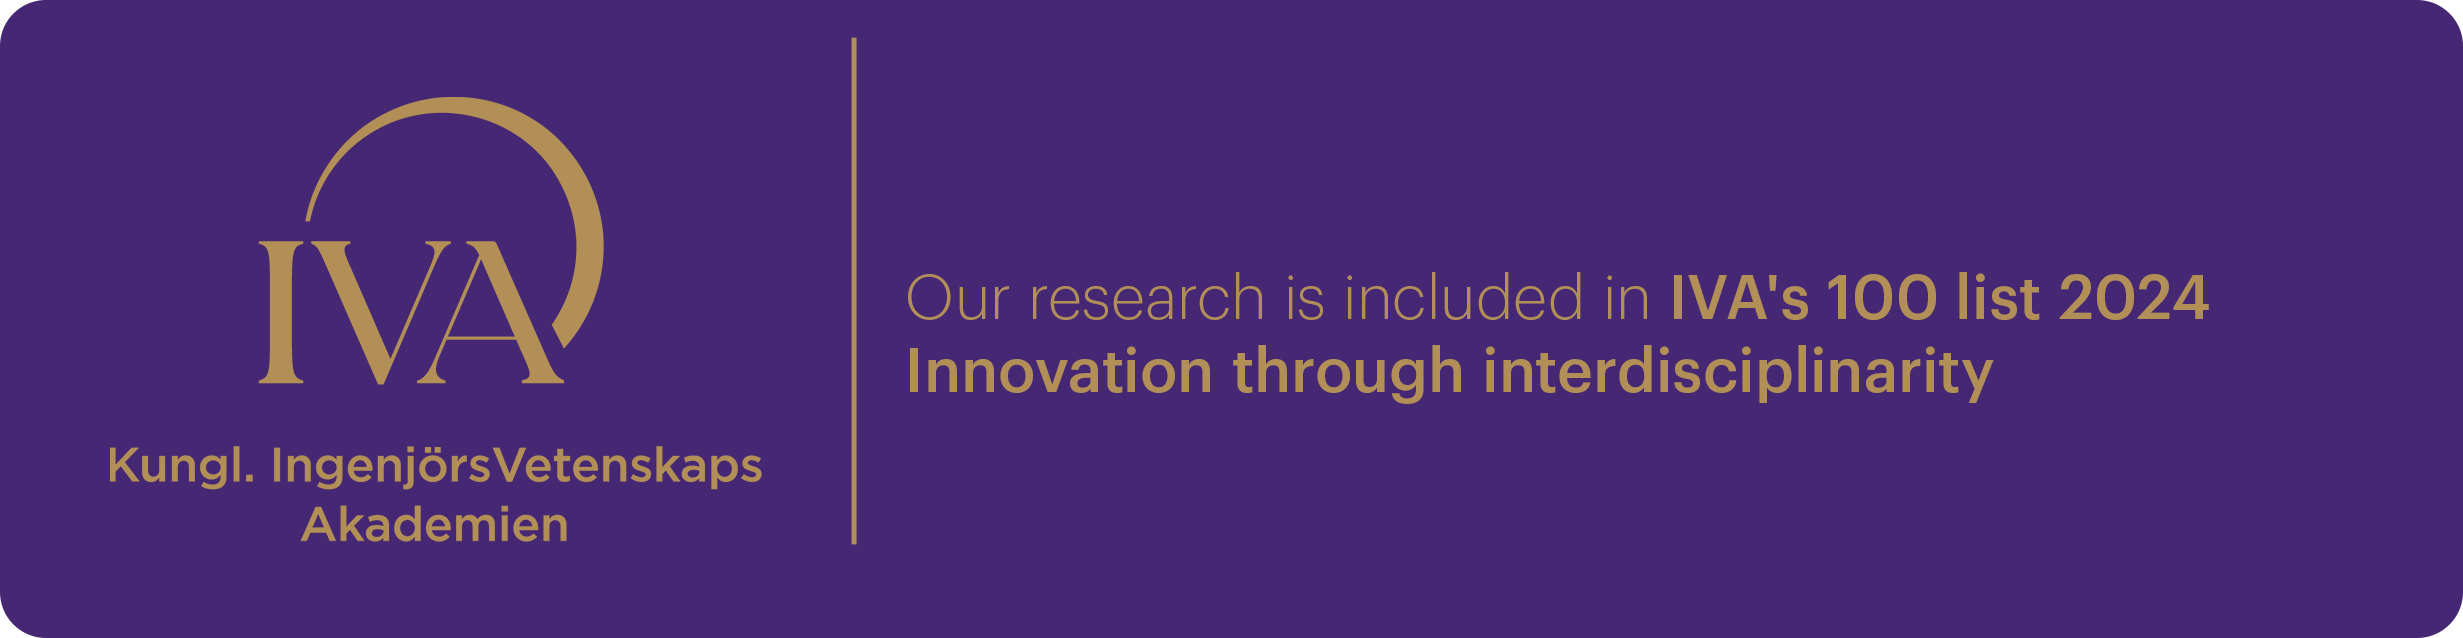
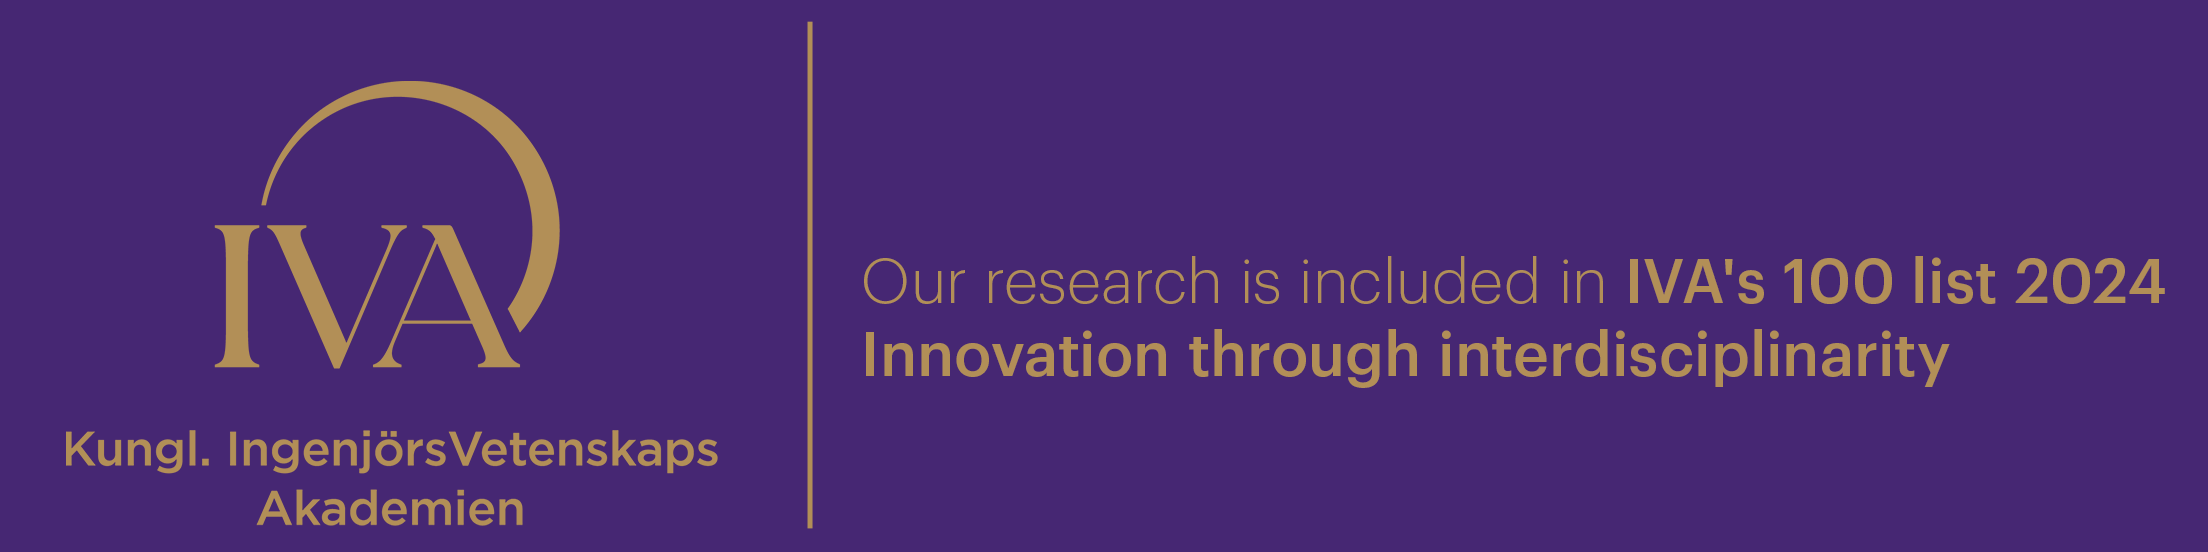
Update spacing

diff --git a/themes/up-business-theme/layouts/index.html b/themes/up-business-theme/layouts/index.html
@@ -2,7 +2,7 @@
   {{ with .Site.Data.home.hero }}{{ partial "sections/hero.html" . }}{{ end }}
   <!-- {{ with .Site.Data.home.brands }}{{ partial "sections/brands.html" . }}{{ end }} -->
   {{ with .Site.Data.home.people }}{{ partial "sections/people.html" . }}{{ end }}
-  <!-- {{ with .Site.Data.home.services }}{{ partial "sections/services.html" . }}{{ end }} -->
+  {{ with .Site.Data.home.services }}{{ partial "sections/services.html" . }}{{ end }}
 <!--   {{ with .Site.Data.home.testimonials }}{{ partial "sections/testimonials.html" . }}{{ end }}
   {{ with .Site.Data.home.cta }}{{ partial "sections/cta.html" . }}{{ end }} -->
 {{ end }}

diff --git a/public/index.html b/public/index.html
@@ -224,9 +224,9 @@
    }
 
    .team-member img {
-     width: 150px;
-     height: 150px;
-     border-radius: 40%;
+     width: 200px;
+     height: 200px;
+     border-radius: 20%;
      object-fit: cover;
    }
 
@@ -461,7 +461,7 @@
     <div class="row text-center">
       <div class="col-12">
         <div class="mb-4">
-          <img src="images/iva.png" alt="Sponsored by IVA" class="img-fluid" style="max-width: 500px;">
+          <img src="images/iva.png" alt="Sponsored by IVA" class="img-fluid" style="max-width: 550px;">
         </div>
         
         

diff --git a/public/categories/index.html b/public/categories/index.html
@@ -198,11 +198,14 @@
   </section>
 <footer class="shared footer bg-blue-light py-5">
   <div class="container">
-  
-    <div class="row">
+    <div class="row text-center">
       <div class="col-12">
+        <div class="mb-4">
+          <img src="images/iva.png" alt="Sponsored by IVA" class="img-fluid" style="max-width: 500px;">
+        </div>
         
-          <p class="small text-black-61 text-center">© 2025 Orb DB Team</p>
+        
+          <p class="small text-black-61 mb-0">© 2025 Orb DB Team</p>
         
       </div>
     </div>

diff --git a/public/post/index.html b/public/post/index.html
@@ -199,11 +199,14 @@
   </section>
 <footer class="shared footer bg-blue-light py-5">
   <div class="container">
-  
-    <div class="row">
+    <div class="row text-center">
       <div class="col-12">
+        <div class="mb-4">
+          <img src="images/iva.png" alt="Sponsored by IVA" class="img-fluid" style="max-width: 500px;">
+        </div>
         
-          <p class="small text-black-61 text-center">© 2025 Orb DB Team</p>
+        
+          <p class="small text-black-61 mb-0">© 2025 Orb DB Team</p>
         
       </div>
     </div>

diff --git a/public/tags/index.html b/public/tags/index.html
@@ -198,11 +198,14 @@
   </section>
 <footer class="shared footer bg-blue-light py-5">
   <div class="container">
-  
-    <div class="row">
+    <div class="row text-center">
       <div class="col-12">
+        <div class="mb-4">
+          <img src="images/iva.png" alt="Sponsored by IVA" class="img-fluid" style="max-width: 500px;">
+        </div>
         
-          <p class="small text-black-61 text-center">© 2025 Orb DB Team</p>
+        
+          <p class="small text-black-61 mb-0">© 2025 Orb DB Team</p>
         
       </div>
     </div>

diff --git a/public/tags/index/index.html b/public/tags/index/index.html
@@ -198,11 +198,14 @@
   </section>
 <footer class="shared footer bg-blue-light py-5">
   <div class="container">
-  
-    <div class="row">
+    <div class="row text-center">
       <div class="col-12">
+        <div class="mb-4">
+          <img src="images/iva.png" alt="Sponsored by IVA" class="img-fluid" style="max-width: 500px;">
+        </div>
         
-          <p class="small text-black-61 text-center">© 2025 Orb DB Team</p>
+        
+          <p class="small text-black-61 mb-0">© 2025 Orb DB Team</p>
         
       </div>
     </div>

diff --git a/themes/up-business-theme/layouts/partials/shared/footer.html b/themes/up-business-theme/layouts/partials/shared/footer.html
@@ -3,7 +3,7 @@
     <div class="row text-center">
       <div class="col-12">
         <div class="mb-4">
-          <img src="images/iva.png" alt="Sponsored by IVA" class="img-fluid" style="max-width: 500px;">
+          <img src="images/iva.png" alt="Sponsored by IVA" class="img-fluid" style="max-width: 550px;">
         </div>
         
         {{ with .Site.Params.copyright }}

diff --git a/themes/up-business-theme/layouts/partials/sections/people.html b/themes/up-business-theme/layouts/partials/sections/people.html
@@ -11,9 +11,9 @@
    }
 
    .team-member img {
-     width: 150px;
-     height: 150px;
-     border-radius: 40%;
+     width: 200px;
+     height: 200px;
+     border-radius: 20%;
      object-fit: cover;
    }
 
